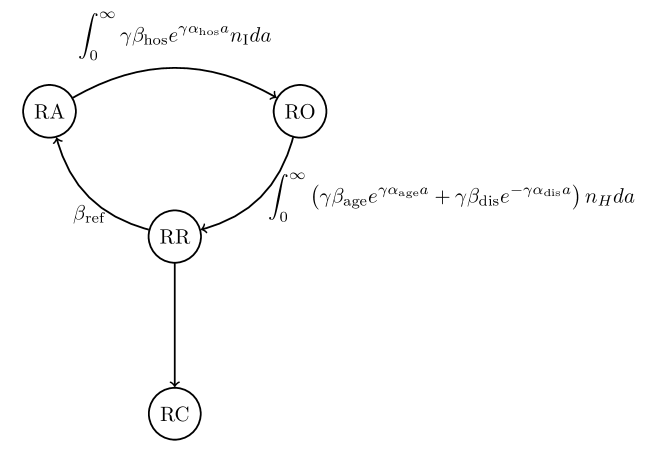
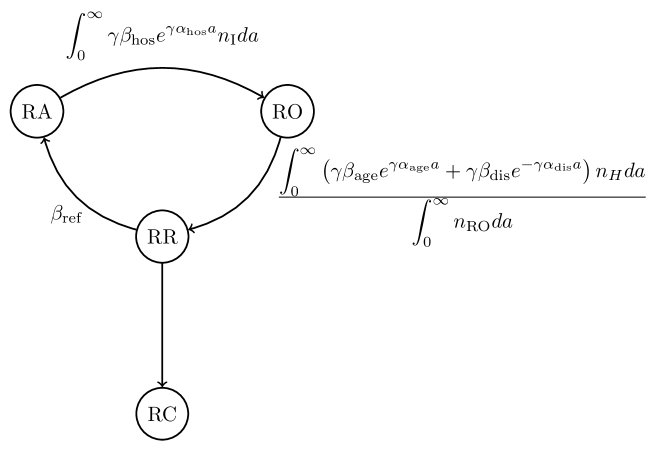
catch mistake in exogenous resource release rate #2 add self documenting constants to demonstration #6

Changed region(s): [[0.0, 0.0311, 0.4308, 0.9956], [0.3692, 0.1867, 1.0, 0.56], [0.8, 0.3422, 0.8923, 0.3733]]

diff --git a/docs/ResourceAllocation.tex b/docs/ResourceAllocation.tex
@@ -24,8 +24,11 @@
     \node[state] (RC) [below of=RR]       {RC};
     \path
       (RA) edge [bend left] node [above] {$\displaystyle\int_0^\infty \gamma\beta_\text{hos} e^{\gamma\alpha_\text{hos} a} n_\text{I} da$} (RO)
-      (RR) edge [bend left] node [below] {$\beta_\text{ref}$} (RA)
-      (RO) edge [bend left] node [right] {$\displaystyle\int_0^\infty \left(\gamma\beta_\text{age} e^{\gamma\alpha_\text{age} a} + \gamma\beta_\text{dis} e^{-\gamma\alpha_\text{dis} a}\right) n_{H} da$} (RR)
+      (RR) edge [bend left] node [below] {$\beta_\text{ref}\quad$} (RA)
+      (RO) edge [bend left] node [right] {$\quad
+      \frac{\displaystyle\int_0^\infty \left(\gamma\beta_\text{age} e^{\gamma\alpha_\text{age} a} + \gamma\beta_\text{dis} e^{-\gamma\alpha_\text{dis} a}\right) n_{H} da}
+      {\displaystyle\int_0^\infty n_\text{RO} da}
+      $} (RR)
       (RR) edge (RC);
   \end{tikzpicture}
 \end{document}

diff --git a/README.md b/README.md
@@ -11,7 +11,7 @@ The author has had the good fortune to have found a home near the mountains on t
 Citing
 ------
 
-Not withstanding any [licenses][00], all use, incorporation, modification, or any other derivative products must cite the author and this work as a contributing source. If you fail to cite this work you are expressly **FORBIDDEN** to use this work in any form.
+Notwithstanding any [licenses][00], all use, incorporation, modification, or any other derivative products must cite the author and this work as a contributing source. If you fail to cite this work you are expressly **FORBIDDEN** to use this work in any form.
 
 ```
 Aaron Sheldon (2020), "von Foerster Hazards" v1.0, Zenodo, doi:Pending registration with Zenodo
@@ -37,7 +37,7 @@ I am a feral mathematician set loose in the life sciences. I specialize in build
 Disclaimer
 ----------
 
-Not withstanding any [licenses][00], this material is intended for general information only, and is provided on an *"as is"*, or *"where is"* basis. Although reasonable efforts were made to confirm the accuracy of the information, the author does not make any representation or warranty, express, implied, or statutory, as to the accuracy, reliability, completeness, applicability, or fitness for a particular purpose of such information. This material is not a substitute for the advice of a qualified health professional. The author expressly disclaims all liability for the use of these materials, and for any claims, actions, demands, or suits arising from such use.
+Notwithstanding any [licenses][00], this material is intended for general information only, and is provided on an *"as is"*, or *"where is"* basis. Although reasonable efforts were made to confirm the accuracy of the information, the author does not make any representation or warranty, express, implied, or statutory, as to the accuracy, reliability, completeness, applicability, or fitness for a particular purpose of such information. This material is not a substitute for the advice of a qualified health professional. The author expressly disclaims all liability for the use of these materials, and for any claims, actions, demands, or suits arising from such use.
 
 [00]: LICENSE
 [01]: https://en.wikipedia.org/wiki/Reproducibility
